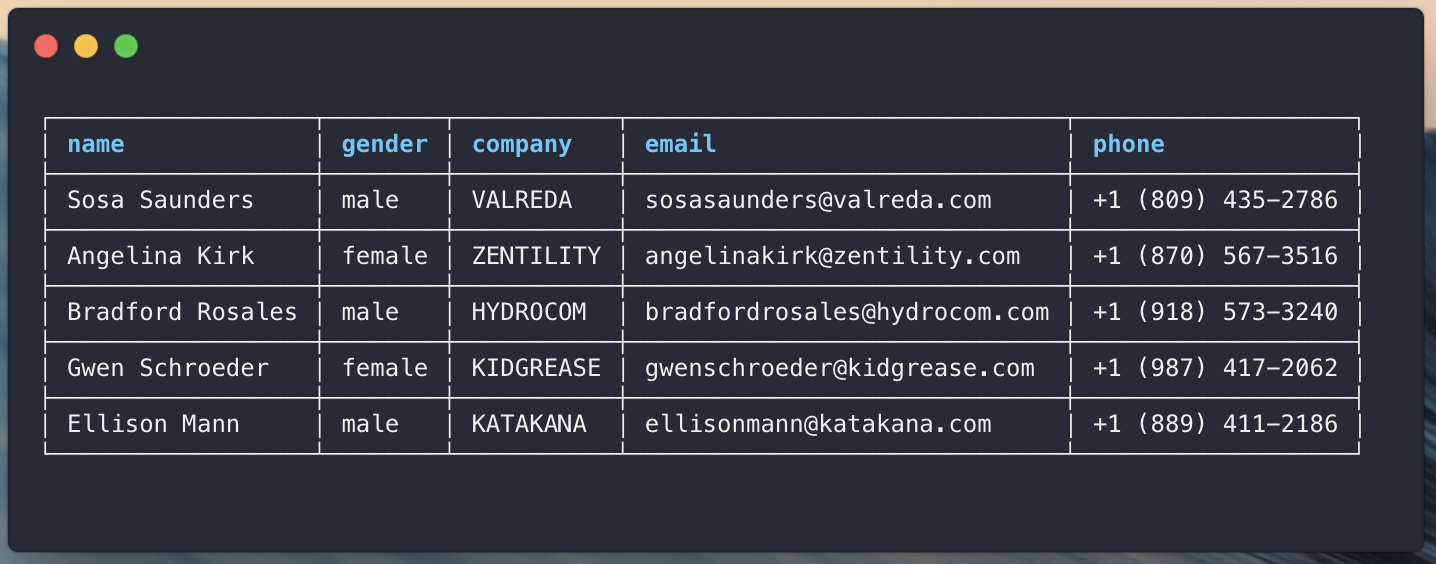
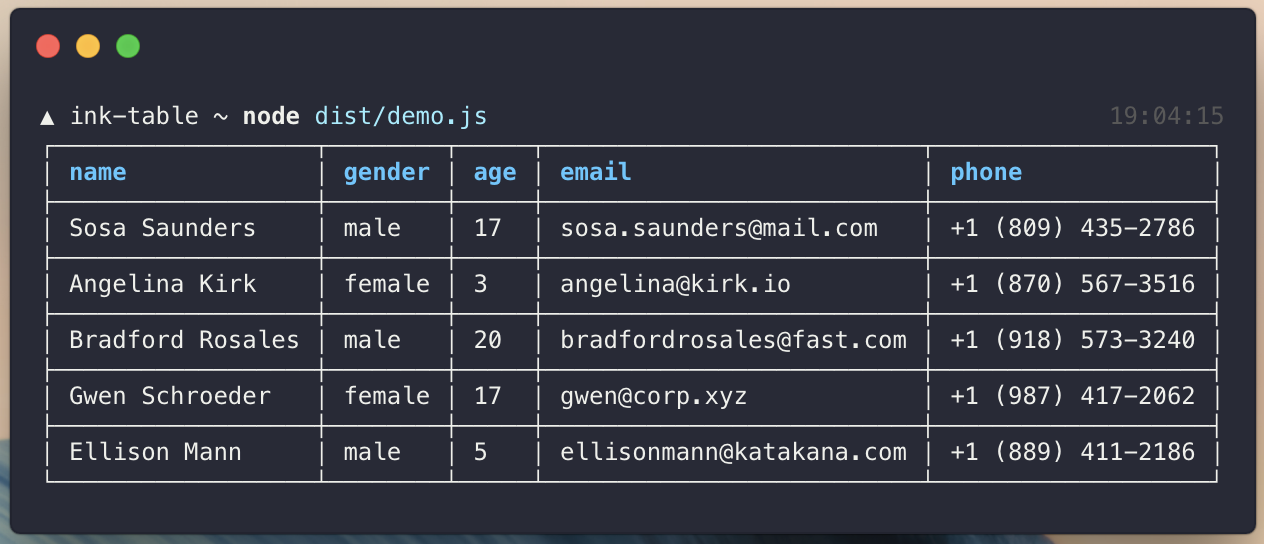
FIxed config, More tests

diff --git a/test.js b/test.js
@@ -1,4 +1,5 @@
-import {h, renderToString} from 'ink'
+import {h, renderToString, Text} from 'ink'
+import PropTypes from 'prop-types'
 import test from 'ava'
 
 import Table, {Header, Skeleton, Cell} from '.'
@@ -8,6 +9,13 @@ import Table, {Header, Skeleton, Cell} from '.'
 const s = v => <Skeleton>{v}</Skeleton>
 const e = v => <Header>{v}</Header>
 const c = v => <Cell>{v}</Cell>
+
+const Custom = ({children}) => <Text red italic>{children}</Text>
+Custom.propTypes = {
+  children: PropTypes.any.isRequired
+}
+
+const u = v => <Custom>{v}</Custom>
 
 // Tests ---------------------------------------------------------------------
 
@@ -83,17 +91,16 @@ test('Renders table with undefined value.', t => {
   t.is(table, expected)
 })
 
-test('Renders table with cutsom config.', t => {
-  const data = [{name: 'Foo'}, {name: 'Bar', age: 15}]
-  const config = {padding: 3}
-  const table = renderToString(<Table data={data} config={config}/>)
+test('Renders table with custom padding.', t => {
+  const data = [{name: 'Foo', age: 12}, {name: 'Bar', age: 15}]
+  const table = renderToString(<Table data={data} padding={3}/>)
 
   const expected = renderToString(
     <span>
       <div>{s('┌')}{s('──────────')}{s('┬')}{s('─────────')}{s('┐')}</div>
       <div>{s('│')}{e('   name   ')}{s('│')}{e('   age   ')}{s('│')}</div>
       <div>{s('├')}{s('──────────')}{s('┼')}{s('─────────')}{s('┤')}</div>
-      <div>{s('│')}{c('   Foo    ')}{s('│')}{c('         ')}{s('│')}</div>
+      <div>{s('│')}{c('   Foo    ')}{s('│')}{c('   12    ')}{s('│')}</div>
       <div>{s('├')}{s('──────────')}{s('┼')}{s('─────────')}{s('┤')}</div>
       <div>{s('│')}{c('   Bar    ')}{s('│')}{c('   15    ')}{s('│')}</div>
       <div>{s('└')}{s('──────────')}{s('┴')}{s('─────────')}{s('┘')}</div>
@@ -102,4 +109,62 @@ test('Renders table with cutsom config.', t => {
 
   t.is(table, expected)
 })
+
+test('Renders table with custom header.', t => {
+  const data = [{name: 'Foo', age: 12}, {name: 'Bar', age: 15}]
+  const table = renderToString(<Table data={data} header={Custom}/>)
+
+  const expected = renderToString(
+    <span>
+      <div>{s('┌')}{s('──────')}{s('┬')}{s('─────')}{s('┐')}</div>
+      <div>{s('│')}{u(' name ')}{s('│')}{u(' age ')}{s('│')}</div>
+      <div>{s('├')}{s('──────')}{s('┼')}{s('─────')}{s('┤')}</div>
+      <div>{s('│')}{c(' Foo  ')}{s('│')}{c(' 12  ')}{s('│')}</div>
+      <div>{s('├')}{s('──────')}{s('┼')}{s('─────')}{s('┤')}</div>
+      <div>{s('│')}{c(' Bar  ')}{s('│')}{c(' 15  ')}{s('│')}</div>
+      <div>{s('└')}{s('──────')}{s('┴')}{s('─────')}{s('┘')}</div>
+    </span>
+  )
+
+  t.is(table, expected)
+})
+
+test('Renders table with custom cell.', t => {
+  const data = [{name: 'Foo', age: 12}, {name: 'Bar', age: 15}]
+  const table = renderToString(<Table data={data} cell={Custom}/>)
+
+  const expected = renderToString(
+    <span>
+      <div>{s('┌')}{s('──────')}{s('┬')}{s('─────')}{s('┐')}</div>
+      <div>{s('│')}{e(' name ')}{s('│')}{e(' age ')}{s('│')}</div>
+      <div>{s('├')}{s('──────')}{s('┼')}{s('─────')}{s('┤')}</div>
+      <div>{s('│')}{u(' Foo  ')}{s('│')}{u(' 12  ')}{s('│')}</div>
+      <div>{s('├')}{s('──────')}{s('┼')}{s('─────')}{s('┤')}</div>
+      <div>{s('│')}{u(' Bar  ')}{s('│')}{u(' 15  ')}{s('│')}</div>
+      <div>{s('└')}{s('──────')}{s('┴')}{s('─────')}{s('┘')}</div>
+    </span>
+  )
+
+  t.is(table, expected)
+})
+
+test('Renders table with custom skeleton.', t => {
+  const data = [{name: 'Foo', age: 12}, {name: 'Bar', age: 15}]
+  const table = renderToString(<Table data={data} skeleton={Custom}/>)
+
+  const expected = renderToString(
+    <span>
+      <div>{u('┌')}{u('──────')}{u('┬')}{u('─────')}{u('┐')}</div>
+      <div>{u('│')}{e(' name ')}{u('│')}{e(' age ')}{u('│')}</div>
+      <div>{u('├')}{u('──────')}{u('┼')}{u('─────')}{u('┤')}</div>
+      <div>{u('│')}{c(' Foo  ')}{u('│')}{c(' 12  ')}{u('│')}</div>
+      <div>{u('├')}{u('──────')}{u('┼')}{u('─────')}{u('┤')}</div>
+      <div>{u('│')}{c(' Bar  ')}{u('│')}{c(' 15  ')}{u('│')}</div>
+      <div>{u('└')}{u('──────')}{u('┴')}{u('─────')}{u('┘')}</div>
+    </span>
+  )
+
+  t.is(table, expected)
+})
+
 // ---------------------------------------------------------------------------

diff --git a/src/index.js b/src/index.js
@@ -1,6 +1,5 @@
 import {h, Text} from 'ink'
 import PropTypes from 'prop-types'
-import merge from 'merge'
 
 // Components ----------------------------------------------------------------
 
@@ -32,33 +31,6 @@ Skeleton.propTypes = {
   children: PropTypes.any.isRequired
 }
 
-// Config --------------------------------------------------------------------
-
-const defaultConfig = {
-  padding: 1,
-  lines: {
-    empty: ' ',
-    vertical: '│',
-    horizontal: '─'
-  },
-  corners: {
-    topLeft: '┌',
-    topRight: '┐',
-    lowerRight: '┘',
-    lowerLeft: '└'
-  },
-  crosses: {
-    mid: '┼',
-    down: '┬',
-    up: '┴',
-    right: '├',
-    left: '┤'
-  },
-  header: Header,
-  cell: Cell,
-  skeleton: Skeleton
-}
-
 // Helpers -------------------------------------------------------------------
 
 const get = key => obj => obj[key]
@@ -73,13 +45,13 @@ const fillWith = el => length => str => `${str}${el.repeat(length - str.length)}
 const getCells = columns => data => columns.map(({width, key}) => ({width, value: get(key)(data)}))
 const union = (...arrs) => [...new Set([].concat(...arrs))]
 
-const generateColumn = config => data => key => {
+const generateColumn = padding => data => key => {
   const allColumns = data.map(get(key))
   const columnsWithValues = allColumns.filter(not(isUndefined))
   const vals = columnsWithValues.map(toString)
   const lengths = vals.map(length)
 
-  const width = Math.max(...lengths, key.length) + (config.padding * 2)
+  const width = Math.max(...lengths, key.length) + (padding * 2)
 
   return {width, key}
 }
@@ -105,20 +77,17 @@ const line = (Cell, Skeleton, {line, left, right, cross, padding}) => cells => {
 
 // Table ---------------------------------------------------------------------
 
-const Table = ({data, config}) => {
-  const validConfig = merge.recursive(defaultConfig, config)
+// Config --------------------------------------------------------------------
 
-  const {header, cell, skeleton} = validConfig
-  const {lines, corners, crosses, padding} = validConfig
-
-  const topLine = line(skeleton, skeleton, {line: lines.horizontal, left: corners.topLeft, right: corners.topRight, cross: crosses.down, padding})
-  const bottomLine = line(skeleton, skeleton, {line: lines.horizontal, left: corners.lowerLeft, right: corners.lowerRight, cross: crosses.up, padding})
-  const midLine = line(skeleton, skeleton, {line: lines.horizontal, left: crosses.right, right: crosses.left, cross: crosses.mid, padding})
-  const headers = line(header, skeleton, {line: lines.empty, left: lines.vertical, right: lines.vertical, cross: lines.vertical, padding})
-  const row = line(cell, skeleton, {line: lines.empty, left: lines.vertical, right: lines.vertical, cross: lines.vertical, padding})
+const Table = ({data, padding, header, cell, skeleton}) => {
+  const topLine = line(skeleton, skeleton, {line: '─', left: '┌', right: '┐', cross: '┬', padding})
+  const bottomLine = line(skeleton, skeleton, {line: '─', left: '└', right: '┘', cross: '┴', padding})
+  const midLine = line(skeleton, skeleton, {line: '─', left: '├', right: '┤', cross: '┼', padding})
+  const headers = line(header, skeleton, {line: ' ', left: '│', right: '│', cross: '│', padding})
+  const row = line(cell, skeleton, {line: ' ', left: '│', right: '│', cross: '│', padding})
 
   const keys = union(...data.map(Object.keys))
-  const columns = keys.map(generateColumn(validConfig)(data))
+  const columns = keys.map(generateColumn(padding)(data))
   const headings = generateHeadings(keys)
   const _skeleton = generateSkeleton(keys)
 
@@ -140,35 +109,18 @@ const Table = ({data, config}) => {
 
 Table.propTypes = {
   data: PropTypes.arrayOf(PropTypes.object),
-  config: PropTypes.shape({
-    padding: PropTypes.number,
-    lines: PropTypes.shape({
-      empty: PropTypes.string,
-      vertical: PropTypes.string,
-      horizontal: PropTypes.string
-    }),
-    corners: PropTypes.shape({
-      topLeft: PropTypes.string,
-      topRight: PropTypes.string,
-      lowerRight: PropTypes.string,
-      lowerLeft: PropTypes.string
-    }),
-    crosses: PropTypes.shape({
-      mid: PropTypes.string,
-      down: PropTypes.string,
-      up: PropTypes.string,
-      right: PropTypes.string,
-      left: PropTypes.string
-    }),
-    header: PropTypes.function,
-    cell: PropTypes.function,
-    skeleton: PropTypes.function
-  })
+  padding: PropTypes.number,
+  header: PropTypes.func,
+  cell: PropTypes.func,
+  skeleton: PropTypes.func
 }
 
 Table.defaultProps = {
   data: [],
-  config: defaultConfig
+  padding: 1,
+  header: Header,
+  cell: Cell,
+  skeleton: Skeleton
 }
 
 // Exports -------------------------------------------------------------------

diff --git a/examples/custom.js b/examples/custom.js
@@ -1,5 +1,24 @@
-import {h, render} from 'ink'
+import {h, render, Text} from 'ink'
+import PropTypes from 'prop-types'
+
 import Table from '..'
+
+// Components ----------------------------------------------------------------
+
+const CustomHeader = ({children}) => <Text red italic>{children}</Text>
+CustomHeader.propTypes = {
+  children: PropTypes.any.isRequired
+}
+
+const CustomCell = ({children}) => <Text white bold>{children}</Text>
+CustomCell.propTypes = {
+  children: PropTypes.any.isRequired
+}
+
+const CustomSkeleton = ({children}) => <Text green>{children}</Text>
+CustomSkeleton.propTypes = {
+  children: PropTypes.any.isRequired
+}
 
 // Demo ----------------------------------------------------------------------
 
@@ -19,7 +38,7 @@ const data = [
 ]
 
 const Basic = () => (
-  <Table data={data}/>
+  <Table data={data} padding={3} header={CustomHeader} skeleton={CustomSkeleton} cell={CustomCell}/>
 )
 
 render(<Basic/>)

diff --git a/README.md b/README.md
@@ -11,21 +11,15 @@ $ npm install ink-table
 
 ```jsx
 const data = [
-  {name: 'Sosa Saunders', gender: 'male', age: 17, email: 'random@random.com'},
-  {name: 'Angelina Kirk', gender: 'female', age: 3, email: 'random@random.com'},
-  {name: 'Bradford Rosales', gender: 'male', age: 20, email: 'random@random.com'},
-  {name: 'Gwen Schroeder', gender: 'female', age: 17, email: 'random@random.com'}
+  {name: 'Sosa Saunders', gender: 'male', age: 17, email: 'sosa.saunders@mail.com', phone: '+1 (809) 435-2786'},
+  {name: 'Angelina Kirk', gender: 'female', age: 3, email: 'angelina@kirk.io', phone: '+1 (870) 567-3516'},
+  {name: 'Bradford Rosales', gender: 'male', age: 20, email: 'bradfordrosales@fast.com', phone: '+1 (918) 573-3240'},
+  {name: 'Gwen Schroeder', gender: 'female', age: 17, email: 'gwen@corp.xyz', phone: '+1 (987) 417-2062'},
+  {name: 'Ellison Mann', gender: 'male', age: 5, email: 'ellisonmann@katakana.com', phone: '+1 (889) 411-2186'}
 ]
 
-const config = {
-  padding: 3,
-  crosses: {
-    mid: '$'
-  }
-}
-
 const Basic = () => (
-  <Table data={data} config={config}/>
+  <Table data={data}/>
 )
 
 render(<Basic/>)
@@ -37,47 +31,23 @@ render(<Basic/>)
 ## Props
 
 #### data `array<object>`
-> List of all the values.
+> List of all the values (rows).
 
-#### config `<config>`
-> Configuration object.
+#### padding `number`
+> Offset inside each cell. This is considered one side value (set to 2 will have 2 spaces on the left and on the right - 4 combined).
 
-## Configuration
-> The whole package is completely configurable!
+#### header `({children}) => h`
+> A component used as header cell. Value is passed as `children` prop.
+_(Recommend using `<Text/>` with `chalk` props.)_
 
-```js
-const defaultConfig = {
-  padding: 1,
-  lines: {
-    empty: ' ',
-    vertical: '│',
-    horizontal: '─'
-  },
-  corners: {
-    topLeft: '┌',
-    topRight: '┐',
-    lowerRight: '┘',
-    lowerLeft: '└'
-  },
-  crosses: {
-    mid: '┼',
-    down: '┬',
-    up: '┴',
-    right: '├',
-    left: '┤'
-  },
-  header: Header,
-  cell: Cell,
-  skeleton: Skeleton
-}
+#### cell `({children}) => h`
+> A component used as regular cell. Value is passed as `children` prop.
+_(Recommend using `<Text/>` with `chalk` props.)_
 
-const exampleConfigure = {
-  padding: 3,
-  crosses: {
-    mid: '$'
-  }
-}
-```
+#### skeleton `({children}) => h`
+> A component used as skeleton (lines and crosses ...). Value is passed as `children` prop.   
+_(Recommend using `<Text/>` with `chalk` props.)_
+
 
 ## License
 
